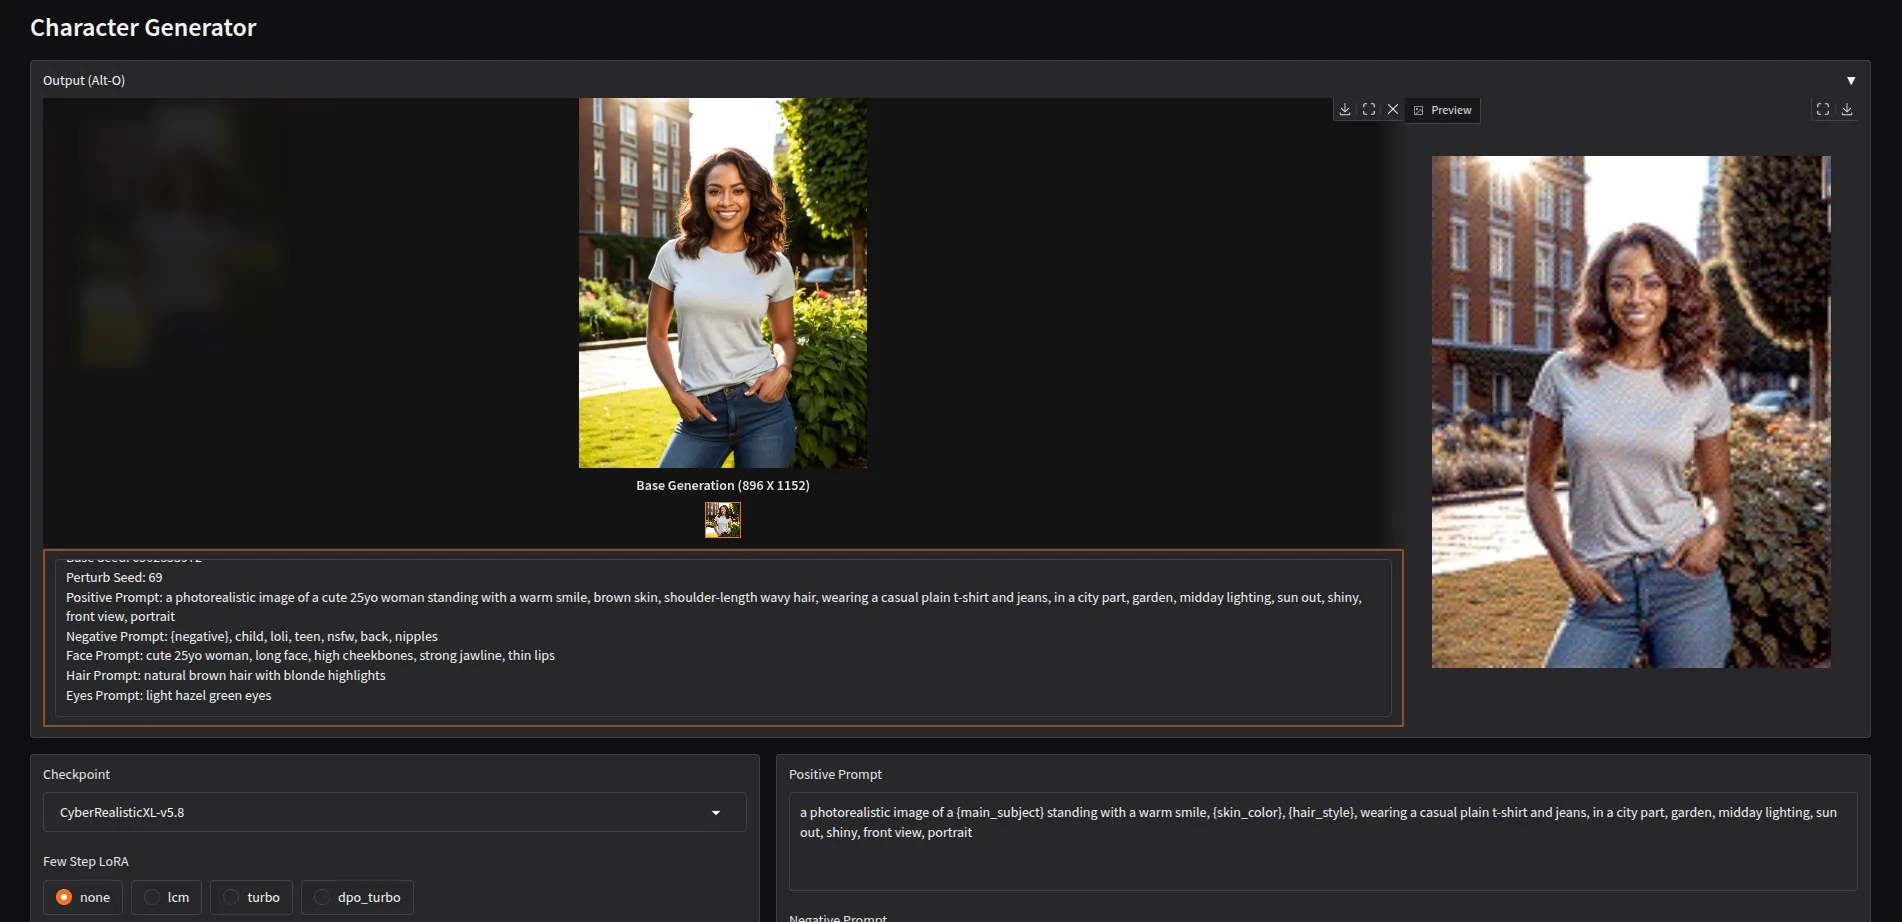
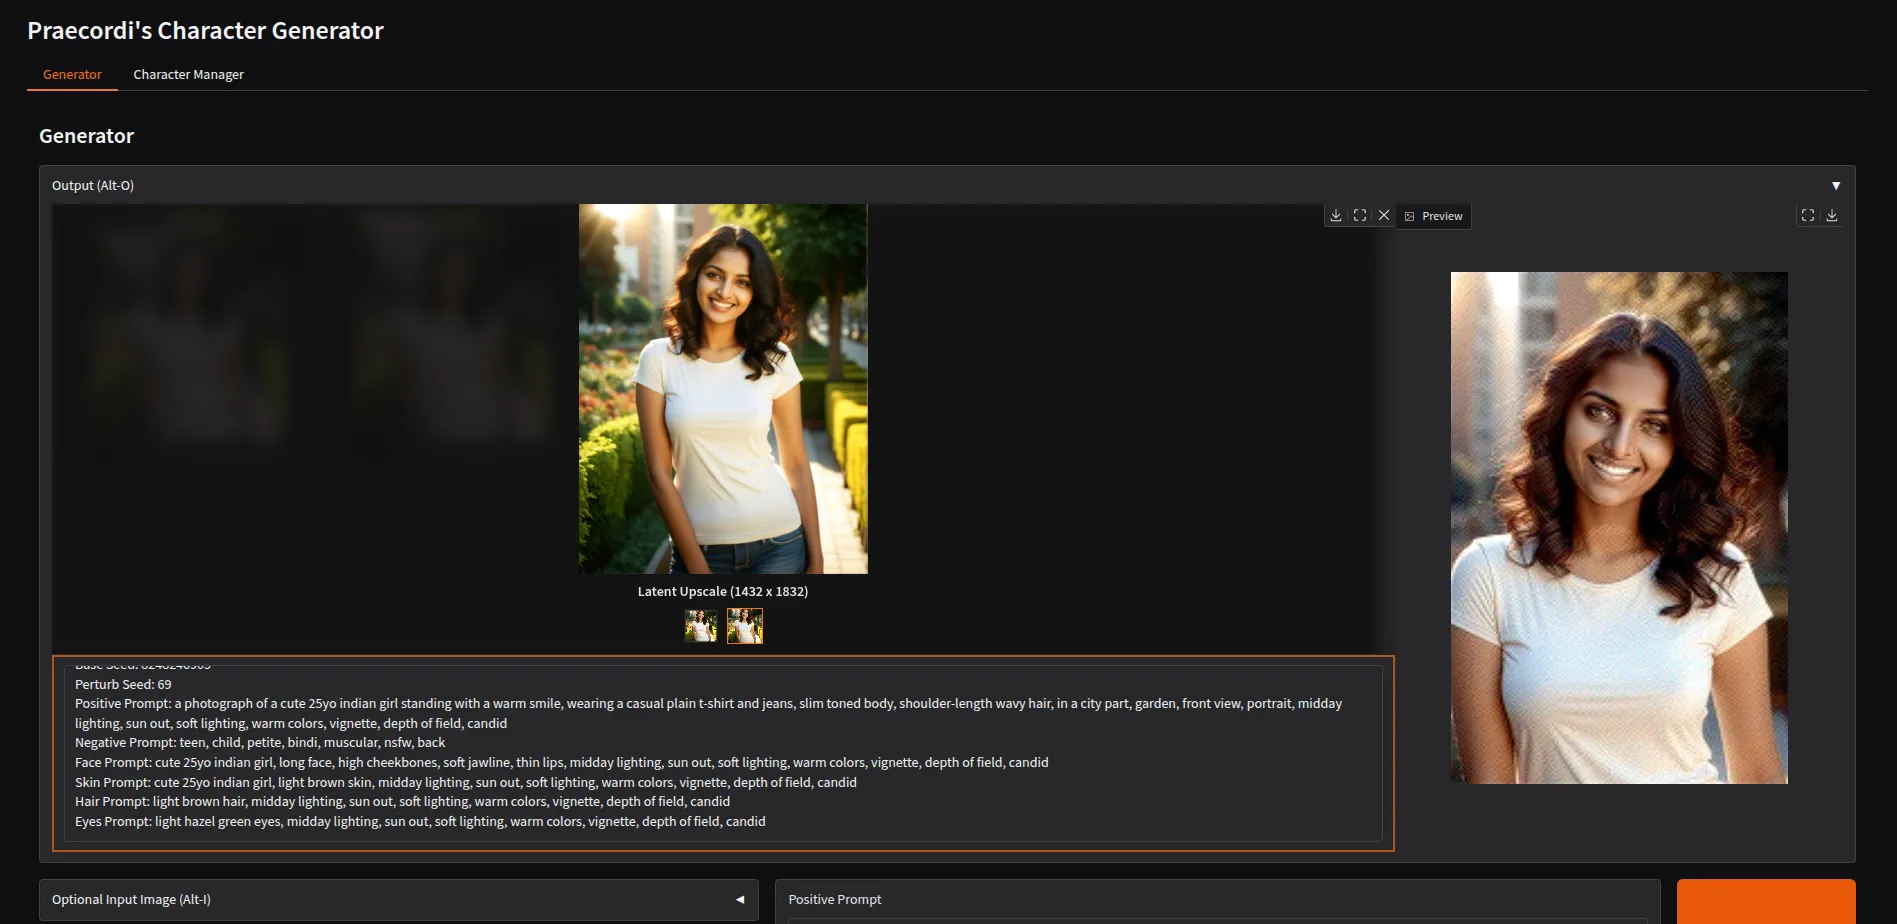
Updated README with new features and images

diff --git a/README.md b/README.md
@@ -1,10 +1,10 @@
 # Character Generation Workflow for ComfyUI with ComfyScript
 
 <div align="center">
-  <image src="./res/strip.webp" alt="Output Example">
+  <image src="./res/teaser.webp" alt="Output Example">
   <figcaption>Example of output for sample character.
   
-  Base Image &rarr; Latent Upscale &rarr; Inpainting Steps (Face, Hair, Eyes) &rarr; Image Upscale &rarr; Remove Background</figcaption>
+  Base Image &rarr; Latent Upscale &rarr; Inpainting Steps (Face, Skin, Hair, Eyes) &rarr; Image Upscale &rarr; Remove Background</figcaption>
 </div>
 
 This project provides a Gradio-based interface for generating consistent character images using ComfyUI. It features a multi-step generation process with specialized controls for character attributes, style transfer, and detail enhancement.
@@ -17,17 +17,25 @@ This project provides a Gradio-based interface for generating consistent charact
 </div>
 
 <div align="center">
-  <image src="./res/ui2.webp" alt="Output Example">
+  <image src="./res/ui2.webp" alt="Options UI">
   <figcaption>Available options for generation</figcaption>
+</div>
+
+<div align="center">
+  <image src="./res/ui3.webp" alt="Character Manager UI">
+  <figcaption>In-build character manager</figcaption>
 </div>
 
 - 🧑🎨 Character-focused generation workflow
 - 🎨 Style transfer with reference images
-- 🔍 Detailed enhancement of facial features, hair, and eyes
-- ♂ Multi-stage upscaling (latent and image)
+- 🧬 Multi-step detail enhancement (face, skin, hair, eyes)
+- 🔍 Florence2-based image captioning (for quick prompt generation)
+- 🧑💼 Integrated character manager for organizing presets and traits
+- 🖼 Option to inpaint existing images instead of generating from base
+- ♂ Multi-stage upscaling (latent and final)
 - ⚙ Customizable generation steps
-- 🖼 Real-time preview during generation
 - 💾 Persistent UI state across sessions
+- 🖼 Real-time preview during generation
 
 ## Requirements
 
@@ -43,9 +51,10 @@ This project provides a Gradio-based interface for generating consistent charact
 - [ComfyUI Inspire Pack](https://github.com/ltdrdata/ComfyUI-Inspire-Pack)
 - [ComfyUI InstantID](https://github.com/cubiq/ComfyUI_InstantID)
 - [ComfyUI Essentials](https://github.com/cubiq/ComfyUI_essentials)
+- [ComfyUI Segment Anything](https://github.com/storyicon/comfyui_segment_anything)
 - [Comfyroll Studio](https://github.com/Suzie1/ComfyUI_Comfyroll_CustomNodes)
 - [ComfyUI Neural Network Latent Upscale](https://github.com/Ttl/ComfyUi_NNLatentUpscale)
-- [ComfyUI ReActor](https://github.com/Gourieff/ComfyUI-ReActor/tree/main)
+- [ComfyUI ReActor](https://github.com/Gourieff/ComfyUI-ReActor)
 - [ComfyUI Detail Daemon](https://github.com/Jonseed/ComfyUI-Detail-Daemon)
 - [ComfyUI Florence2](https://github.com/kijai/ComfyUI-Florence2)
 
@@ -130,10 +139,11 @@ The current generation process (each of which can be toggled) includes:
 1. Base Generation
 2. Iterative Latent Upscale
 3. Face Detail Enhancement
-4. Hair Detail Enhancement
-5. Eyes Detail Enhancement
-6. Image Upscale
-7. Background Removal
+4. Skin Detail Enhancement
+5. Hair Detail Enhancement
+6. Eyes Detail Enhancement
+7. Image Upscale
+8. Background Removal
 
 > [!NOTE]
 > The app currently only works with the SDXL architecture. It also assumes that sdxl checkpoints are placed in a folder called `sdxl/` and pony checkpoints in a folder called `pony/` in your models folder.
@@ -142,6 +152,17 @@ The current generation process (each of which can be toggled) includes:
 
 > [!WARNING]
 > I've only been able to test this on Ubuntu
+
+### Character Manager
+
+The Character Manager tab provides a UI-based editor for managing your character JSON configurations. From this tab, you can:
+
+- View and switch between characters
+- Edit prompts and attributes
+- Assign or preview reference images
+- Save/load configurations persistently
+
+Changes made through the Character Manager are reflected in the current session and saved to the character config file. This dramatically speeds up iteration, especially when balancing multiple characters across a dataset.
 
 ## Contributing
 
